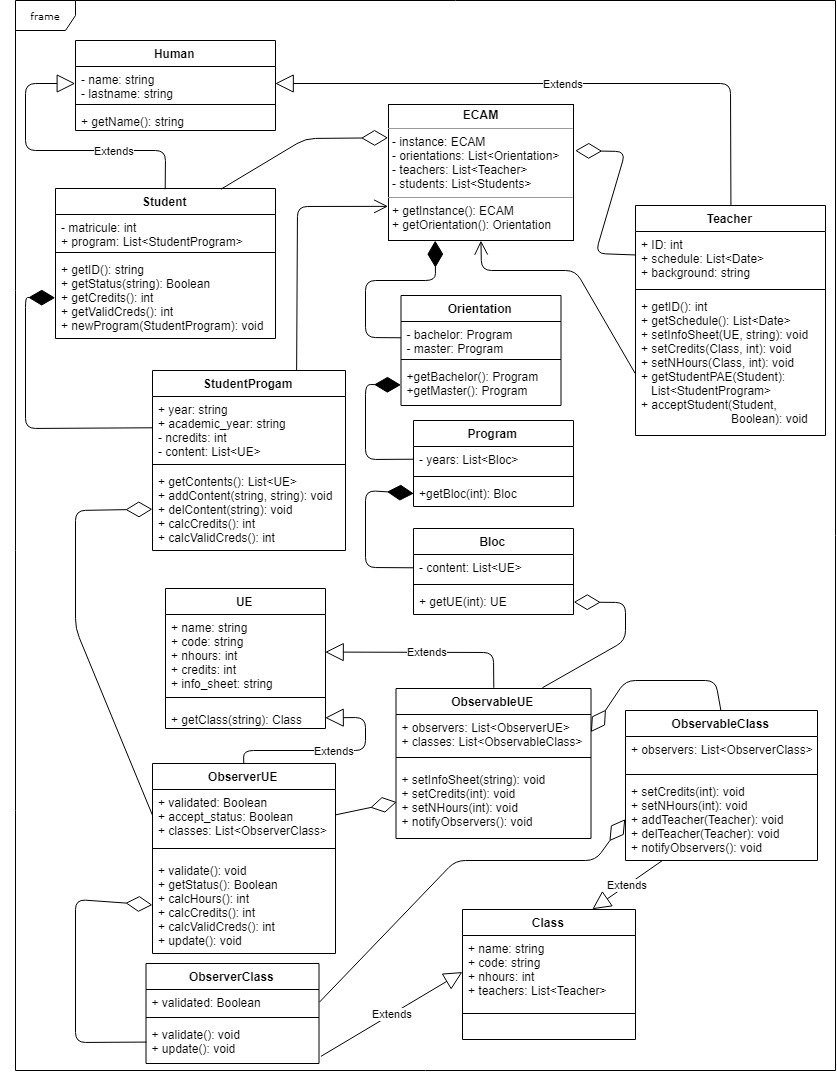
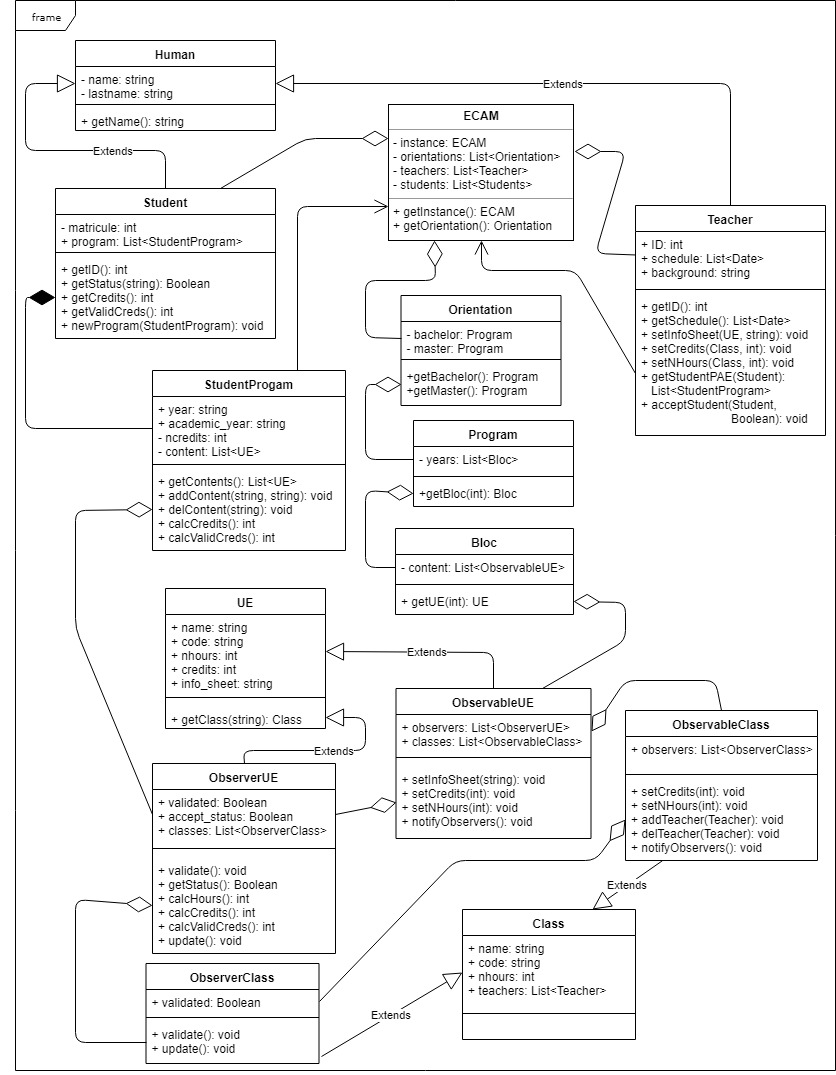
Ludovic (#7)
* Change javadoc in ECAM_side

* change javadoc in People_side

* change javadoc in ECAM_side

* change javadoc in UE-classes

* modify class UML

* Change notifyObservers

* Update ObservableClassTest.java

diff --git a/src/test/java/UE_classes/ObservableClassTest.java b/src/test/java/UE_classes/ObservableClassTest.java
@@ -62,7 +62,7 @@ public class ObservableClassTest {
         Assert.assertNotSame(10, class2.getNbrHours());
 
         SA4T.setNbrHours(8);
-        SA4T.duplicate(class1);
+        SA4T.notifyObservers();
         Assert.assertEquals(1, SA4T.getObservers().size());
         Assert.assertEquals(8, class1.getNbrHours());
         Assert.assertNotSame(8, class2.getNbrHours());

diff --git a/src/test/java/UE_classes/ObservableUeTest.java b/src/test/java/UE_classes/ObservableUeTest.java
@@ -50,7 +50,7 @@ public class ObservableUeTest {
         Assert.assertNotSame(47, ue2.getHours());
 
         DD4L.setHours(8);
-        DD4L.duplicate(ue1);
+        DD4L.notifyObservers();
         Assert.assertEquals(1, DD4L.getObservers().size());
         Assert.assertEquals(8, ue1.getHours());
         Assert.assertNotSame(8, ue2.getHours());
